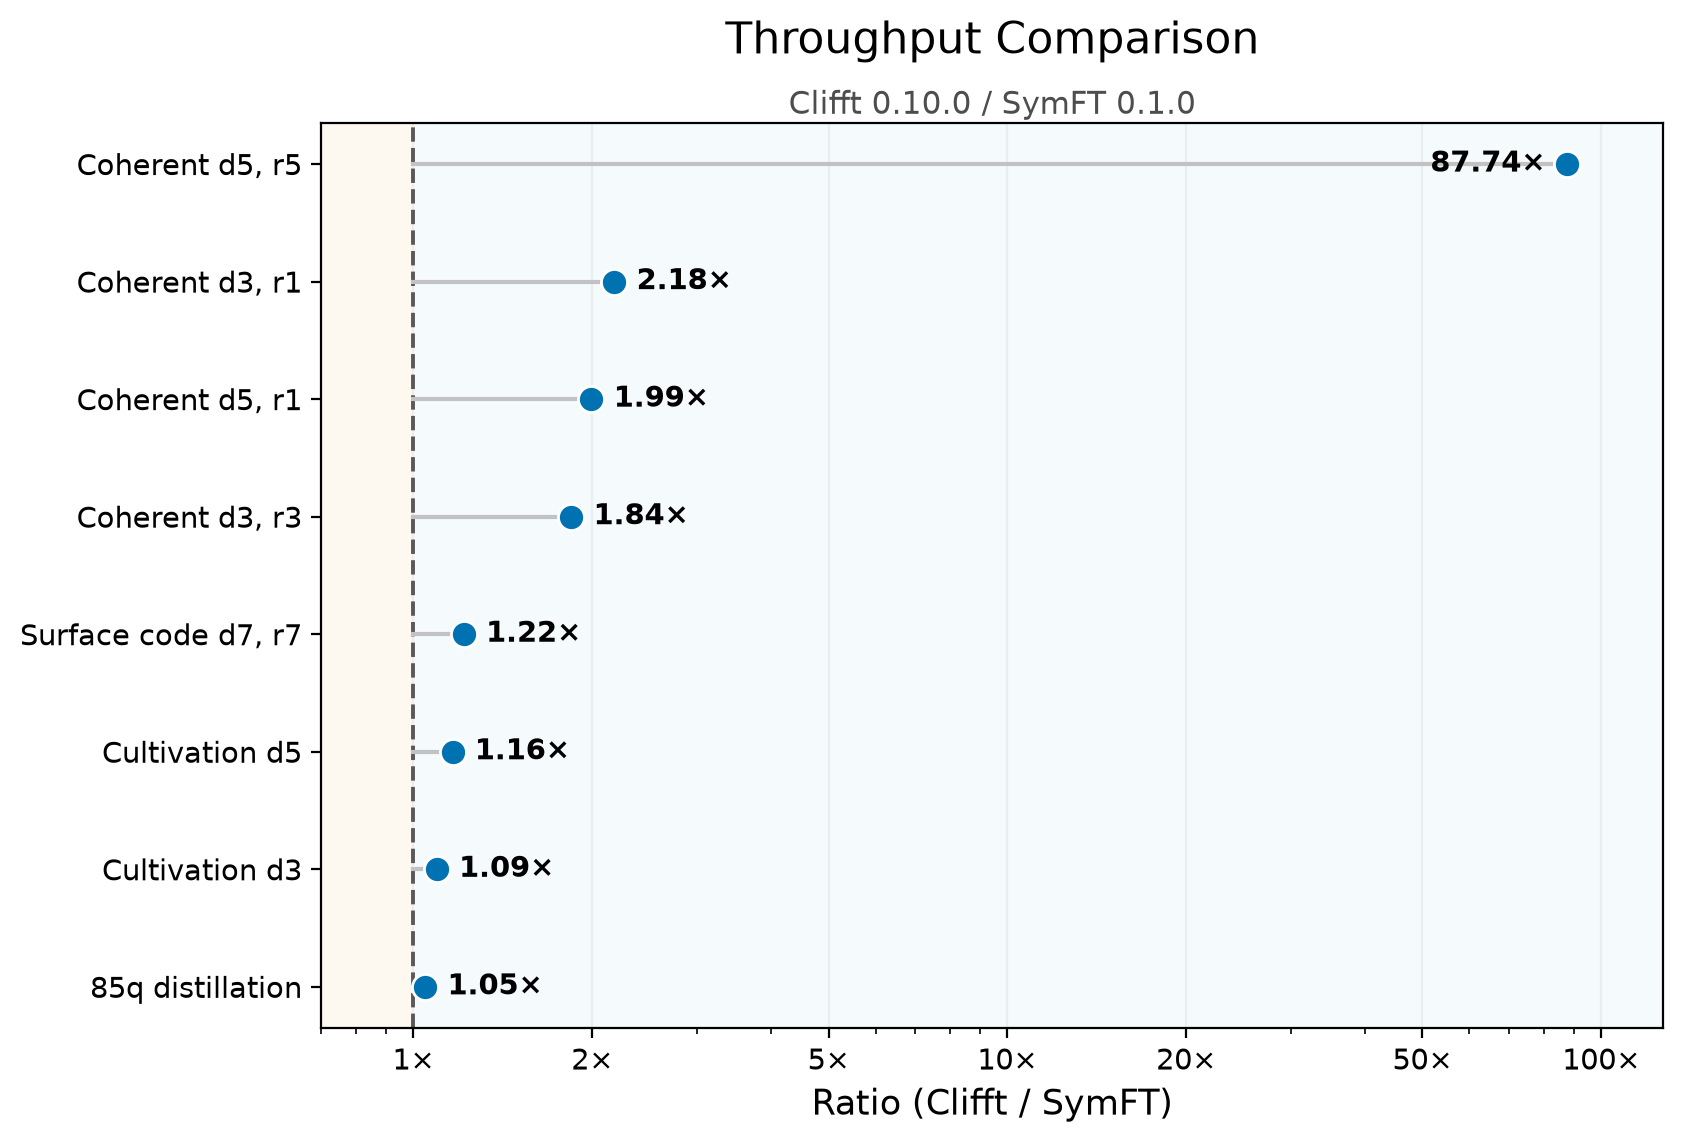
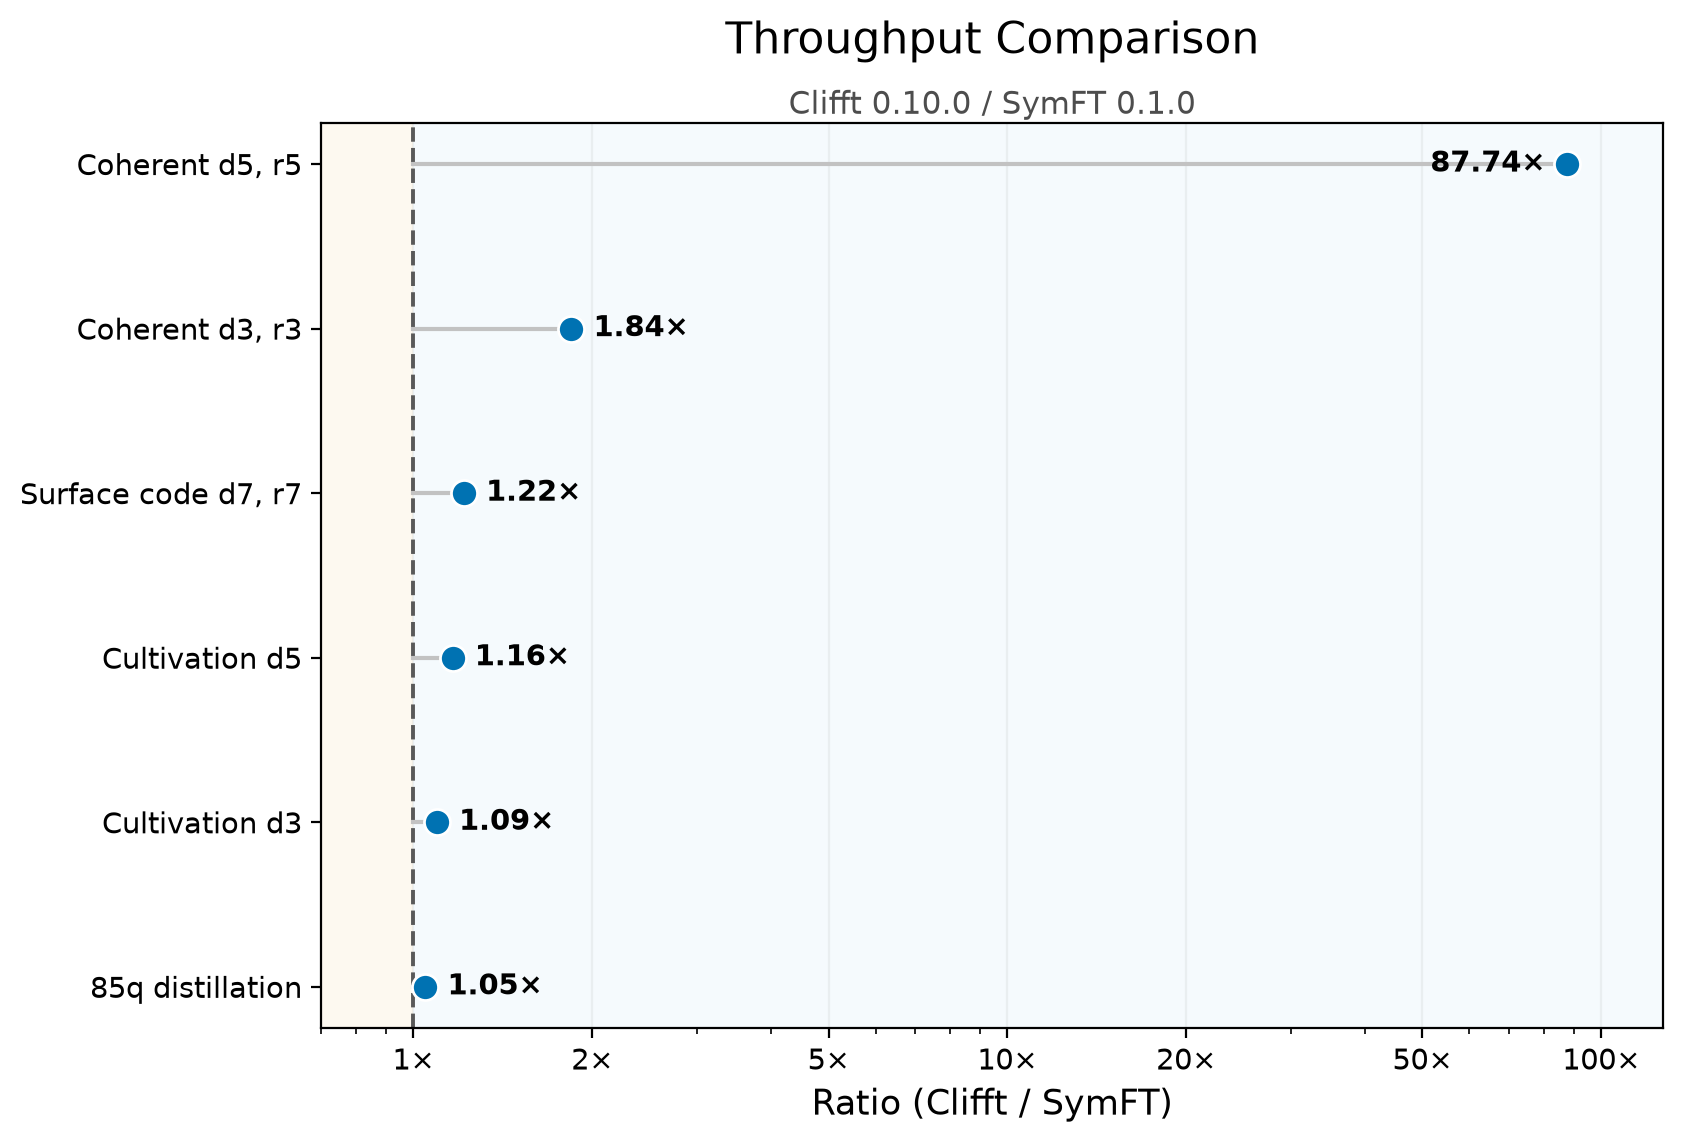
bench: retire single-round coherent workloads from release comparisons
Use the same six-workload core for recurring campaigns and historical reporting while preserving archived evidence and circuit fixtures.

Assisted-by: Codex (GPT-6) <noreply@openai.com>

diff --git a/tests/test_reporting.py b/tests/test_reporting.py
@@ -7,6 +7,8 @@ import statistics
 import struct
 from pathlib import Path
 
+import pytest
+
 from clifft_bench.manifest import load_suite
 from clifft_bench.results import COMPARISON_FIELDS
 from clifft_bench.results import _comparison_rows as collect_comparisons
@@ -23,6 +25,90 @@ def _source_document() -> dict:
 def _comparison_rows(execution: Path) -> list[dict[str, str]]:
     with (execution / "comparisons.csv").open(newline="") as stream:
         return list(csv.DictReader(stream))
+
+
+def _write_rows(path: Path, rows: list[dict[str, str]]) -> None:
+    with path.open("w", newline="") as stream:
+        writer = csv.DictWriter(stream, fieldnames=list(rows[0]))
+        writer.writeheader()
+        writer.writerows(rows)
+
+
+@pytest.fixture
+def copied_sources(tmp_path: Path) -> Path:
+    document = _source_document()
+    history = ROOT / document["history_execution"]
+    history_copy = tmp_path / history.name
+    history_copy.mkdir()
+    (history_copy / "cases.csv").write_bytes((history / "cases.csv").read_bytes())
+    document["history_execution"] = str(history_copy)
+    releases = []
+    for relative in document["release_executions"]:
+        source = ROOT / relative
+        destination = tmp_path / source.name
+        destination.mkdir()
+        for name in ("comparisons.csv", "index.json"):
+            (destination / name).write_bytes((source / name).read_bytes())
+        releases.append(str(destination))
+    document["release_executions"] = releases
+    path = tmp_path / "sources.json"
+    path.write_text(json.dumps(document))
+    return path
+
+
+def test_reporting_selects_the_release_core_from_archived_results(copied_sources: Path) -> None:
+    expected = build_report(SOURCES)
+    suite = load_suite(ROOT / "campaigns/release-v1/run.v1.json")
+    core = {case.workload.id for case in suite.cases}
+    assert len(core) == 6
+    assert set(WORKLOAD_ORDER) == core
+    assert set(expected.history.speedups) == core
+    assert expected.history.medians == tuple(
+        statistics.median(values) for values in zip(*expected.history.speedups.values())
+    )
+
+    document = json.loads(copied_sources.read_text())
+    paths = [Path(document["history_execution"]) / "cases.csv"] + [
+        Path(execution) / "comparisons.csv" for execution in document["release_executions"]
+    ]
+    archived_extras = set()
+    for path in paths:
+        with path.open(newline="") as stream:
+            rows = list(csv.DictReader(stream))
+        archived_extras.update({row["workload_id"] for row in rows} - core)
+        _write_rows(path, [row for row in rows if row["workload_id"] in core])
+    assert archived_extras == {
+        "coherent-surface-d3-r1-p1e-3-rz2e-2",
+        "coherent-surface-d5-r1-p1e-3-rz2e-2",
+    }
+
+    # A future six-workload execution and the archived eight-workload evidence
+    # must produce the same view when the shared measurements are identical.
+    assert build_report(copied_sources) == expected
+
+
+@pytest.mark.parametrize("section", ["history", "current-vs-previous", "alternatives-vs-current"])
+def test_reporting_rejects_missing_core_measurements(copied_sources: Path, section: str) -> None:
+    document = json.loads(copied_sources.read_text())
+    if section == "history":
+        path = Path(document["history_execution"]) / "cases.csv"
+    else:
+        path = Path(document["release_executions"][-1]) / "comparisons.csv"
+    with path.open(newline="") as stream:
+        rows = list(csv.DictReader(stream))
+    _write_rows(path, [
+        row for row in rows
+        if not (
+            row["workload_id"] == "coherent-surface-d3-r3-p1e-3-rz2e-2"
+            and (
+                row["simulator_display_version"] == "0.5.0"
+                if section == "history" else row["comparison_id"] == section
+            )
+        )
+    ])
+
+    with pytest.raises(ValueError, match="does not cover the reporting core"):
+        build_report(copied_sources)
 
 
 def test_reporting_chains_calibrated_release_onto_scalar_history() -> None:
@@ -141,7 +227,7 @@ def test_reporting_exposes_release_comparison_and_qv_source() -> None:
     assert report.qv_execution == Path(source_document["qv_execution"]).name
     assert len(report.release_points) == len(WORKLOAD_ORDER)
     release_points = {point.workload_id: point for point in report.release_points}
-    assert release_points["coherent-surface-d3-r1-p1e-3-rz2e-2"].current_packed
+    assert release_points["distillation-color-code-85q-p5e-2"].current_packed
     assert not release_points["coherent-surface-d5-r5-p1e-3-rz2e-2"].current_packed
 
 

diff --git a/reporting/qec.py b/reporting/qec.py
@@ -21,9 +21,7 @@ CURRENT_COMPARISON = "current-vs-previous"
 ALTERNATIVES_COMPARISON = "alternatives-vs-current"
 
 WORKLOAD_LABELS = {
-    "coherent-surface-d3-r1-p1e-3-rz2e-2": "Coherent d3, r1",
     "coherent-surface-d3-r3-p1e-3-rz2e-2": "Coherent d3, r3",
-    "coherent-surface-d5-r1-p1e-3-rz2e-2": "Coherent d5, r1",
     "coherent-surface-d5-r5-p1e-3-rz2e-2": "Coherent d5, r5",
     "distillation-color-code-85q-p5e-2": "85q distillation",
     "msc-d3-inject-cultivate-p1e-3": "Cultivation d3",
@@ -144,7 +142,10 @@ def _single_ints(
 def _select_comparison(
     rows: list[dict[str, str]], comparison_id: str, execution_id: str
 ) -> list[dict[str, str]]:
-    selected = [row for row in rows if row["comparison_id"] == comparison_id]
+    selected = [
+        row for row in rows
+        if row["comparison_id"] == comparison_id and row["workload_id"] in WORKLOAD_ORDER
+    ]
     if {row["workload_id"] for row in selected} != set(WORKLOAD_ORDER):
         raise ValueError(f"{execution_id} {comparison_id} does not cover the reporting core")
     if any(
@@ -259,11 +260,18 @@ def build_report(sources_path: Path = DEFAULT_SOURCES) -> Report:
     history_versions = tuple(
         dict.fromkeys(row["simulator_display_version"] for row in history_rows)
     )
+    # Archived executions retain retired workloads; every plotted version uses
+    # the same core so a corpus change cannot move the aggregate by itself.
+    history_rows = [row for row in history_rows if row["workload_id"] in WORKLOAD_ORDER]
     history_rates = _median_rates(
         history_rows,
         ("workload_id", "simulator_display_version"),
         "median_attempted_shots_per_second",
     )
+    if set(history_rates) != {
+        (workload, version) for workload in WORKLOAD_ORDER for version in history_versions
+    }:
+        raise ValueError(f"history execution {history_path.name} does not cover the reporting core")
     history_shots = _single_ints(history_rows, "shots_per_call", "historical shots_per_call")
     releases = tuple(_load_release(path) for path in selected.releases)
     if any(release.shots_per_call != history_shots for release in releases):

diff --git a/tests/test_manifests.py b/tests/test_manifests.py
@@ -30,8 +30,8 @@ def test_release_manifest_expands_named_variants() -> None:
     suite = load_suite(ROOT / "campaigns/release-v1/run.v1.json")
 
     assert suite.run["collection"]["placements"] == 1
-    assert len(suite.cases) == 25
-    assert len({case.id for case in suite.cases}) == 25
+    assert len(suite.cases) == 19
+    assert len({case.id for case in suite.cases}) == 19
     assert {case.definition["variant_id"] for case in suite.cases} == {
         "clifft-previous",
         "clifft-current",
@@ -91,7 +91,7 @@ def test_release_manifest_expands_named_variants() -> None:
         ]
         for variant_id in ("clifft-previous", "clifft-current", "symft-current")
     }
-    assert all(len(cases) == 8 for cases in calibrated_by_variant.values())
+    assert all(len(cases) == 6 for cases in calibrated_by_variant.values())
     for cases in calibrated_by_variant.values():
         assert all(
             case.definition["execution"]["batch_enabled"] is True
@@ -128,9 +128,7 @@ def test_release_manifest_expands_named_variants() -> None:
         ("msc-d5-inject-cultivate-p1e-3", 20000),
         ("distillation-color-code-85q-p5e-2", 100000),
         ("surface-code-d7-r7-p1e-3", 100000),
-        ("coherent-surface-d3-r1-p1e-3-rz2e-2", 100000),
         ("coherent-surface-d3-r3-p1e-3-rz2e-2", 100000),
-        ("coherent-surface-d5-r1-p1e-3-rz2e-2", 10000),
         ("coherent-surface-d5-r5-p1e-3-rz2e-2", 1),
     }
     assert all(

diff --git a/docs/benchmark-contract.md b/docs/benchmark-contract.md
@@ -22,6 +22,23 @@ records, which the adapter reduces to the same counts; both materialization and
 reduction are included in its sampling time. This is a comparison of available
 aggregate endpoints, not identical internal work or a decoder benchmark.
 
+## Release workload selection
+
+The recurring release campaign and headline QEC figures use six workloads:
+cultivation d3 and d5, 85q distillation, Clifford surface code d7/r7, and
+coherent surface code d3/r3 and d5/r5.
+
+The coherent d3/r1 and d5/r1 circuits are excluded from this core. Their
+single-round Z rotations do not affect the measured outcomes, and active-width
+scheduling can reduce their non-Clifford work to zero. This is a useful compiler
+simplification case, but does not measure sustained coherent-noise simulation.
+The immutable circuit fixtures, workload identities, historical backfill, and
+archived results remain available for reproduction and compiler diagnostics.
+
+Reporting selects the same six workloads from every historical execution and
+recomputes the median at each version. Comparisons must not mix an older
+eight-workload aggregate with a newer six-workload aggregate.
+
 ## Timed boundaries
 
 | Phase | Timed as execution? |
@@ -125,7 +142,7 @@ using the capabilities available in each release. It applies calibration to
 both releases, allowing an older release without batching support to select
 scalar execution after unsupported candidates fail. The
 `alternatives-vs-current` comparison applies the same calibration policy to
-current Clifft and SymFT across all eight workloads. The separate
+current Clifft and SymFT across all six release workloads. The separate
 `stim-anchor-vs-current` comparison pairs current Clifft with Stim on the
 compatible surface-code workload. Keeping the anchor separate preserves the
 existing Clifft/SymFT comparison identity and its downstream consumers. All

diff --git a/docs/manual-ec2.md b/docs/manual-ec2.md
@@ -110,8 +110,8 @@ jq -r '
 Confirm that `current-vs-previous` compares calibrated previous and current
 Clifft and `alternatives-vs-current` compares calibrated Clifft with SymFT.
 The separate `stim-anchor-vs-current` comparison contributes only the
-surface-code row; seven non-Clifford workloads are outside Stim's supported
-domain. The current campaign has 25 cases; the anchor reuses current Clifft's
+surface-code row; five non-Clifford release workloads are outside Stim's supported
+domain. The current campaign has 19 cases; the anchor reuses current Clifft's
 surface-code measurement.
 Within every row, confirm that baseline and candidate use the same
 `shots_per_call`.
@@ -119,7 +119,7 @@ Within every row, confirm that baseline and candidate use the same
 The bootstrap reads the new pinned SymFT source and Stim wheel environments from
 the manifest automatically. Expect SymFT 0.1.1 at `c89b985`, Stim 1.16.0, and
 Stim's loaded native extension and chunk calibration in the raw setup metadata.
-Five 30-second samples across 25 cases require at least 62.5 minutes of sampling,
+Five 30-second samples across 19 cases require at least 47.5 minutes of sampling,
 plus setup/calibration and call overruns. The Tsim GPU study has separate
 [instructions](../experiments/tsim-gpu/README.md); do not run this CPU playbook
 on its GPU host.

diff --git a/README.md b/README.md
@@ -19,12 +19,15 @@ for interpretation, methodology, and longer-term performance history.
 These figures use the reviewed
 [Clifft 0.10.0 release-candidate results](results/release-v1/release-v1-20260903-133252/).
 Plot labels show the intended release version; the measurements used 0.10.0rc1.
+All QEC figures use the six-workload release core, including historical points.
+The single-round coherent circuits remain in the archived results but are
+excluded from these figures; see the [workload selection](docs/benchmark-contract.md#release-workload-selection).
 
 ### Did Clifft get faster in the latest release?
 
 <picture>
   <source media="(prefers-color-scheme: dark)" srcset="reporting/figures/web/v010-vs-v009-dark.png">
-  <img src="reporting/figures/web/v010-vs-v009-light.png" alt="Clifft 0.10.0 throughput relative to 0.9.0 across eight near-Clifford workloads">
+  <img src="reporting/figures/web/v010-vs-v009-light.png" alt="Clifft 0.10.0 throughput relative to 0.9.0 across six near-Clifford workloads">
 </picture>
 
 ### How does Clifft compare with other simulators?

diff --git a/reporting/README.md b/reporting/README.md
@@ -18,6 +18,14 @@ The joins validate execution identities, workload coverage, equal per-workload
 shot counts, the release chain, and reuse of the same current Clifft cases in
 both release comparisons.
 
+The reporting core matches the six workloads in the recurring release campaign.
+The archived eight-workload executions are filtered to this same core before
+computing historical medians, release ratios, or cross-tool figures. Every
+selected version and release comparison must still cover all six workloads.
+The coherent d3/r1 and d5/r1 rows remain in the original evidence, but are no
+longer headline workloads because their non-Clifford work simplifies away;
+see the [workload selection](../docs/benchmark-contract.md#release-workload-selection).
+
 ## Publication figures
 
 The paper-style QEC figures remain in `figures/`. Generate them from the
